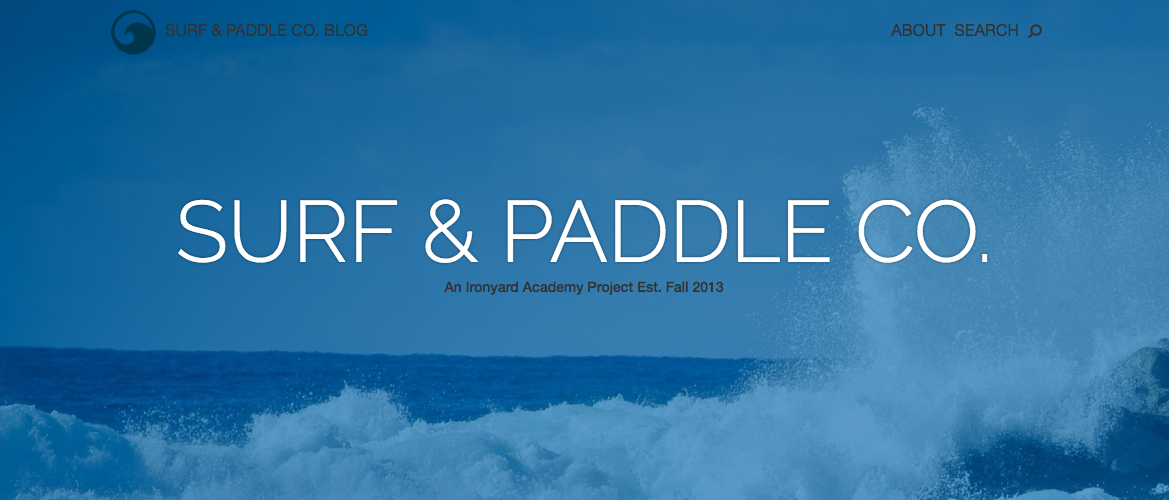
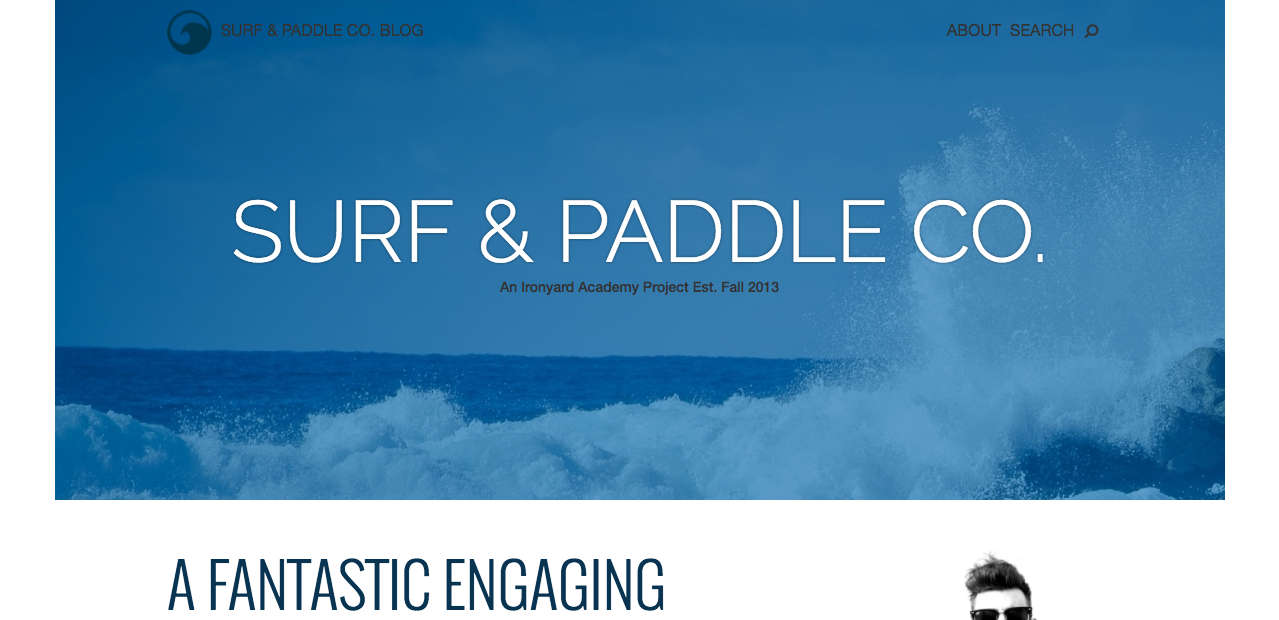
updated projects view and styling

diff --git a/index.html b/index.html
@@ -84,27 +84,135 @@
 
   <div id='projects' class="container">
     <h3>My projects</h3>
-    <div class="slider">
-      <ul class="slides">
-        <li class="project">
-          <a class='project-link' href="http://www.kevinbrown.io/surf-paddle/">
-            <img src="images/surf-and-paddle.png">
-            <div style='display:none;' class="caption center-align">
-              <h5 id='image-description' class="light grey-text text-lighten-3">This is a non-functional website, built with Bootstrap, to show design.</h5>
+    <div class="row">
+      <div class="col s6">
+        <div class="card">
+          <div class="card-image activator">
+            <img class='activator' src="images/final-project.png">
+            <!-- <span class="card-title">Surf &amp; Paddle</span> -->
+          </div>
+          <div class="card-content">
+            <span class="card-title activator grey-text text-darken-4">SnapShot<i class="material-icons right">more_vert</i></span>
+          </div>
+          <div class="card-reveal blue-grey darken-1 white-text">
+            <span class="card-title">SnapShot<i class="material-icons right">close</i></span>
+            <p>This is a React.js app I built for my final project at The Iron Yard. It allows Xbox users to view their saved clips from games they record on their Xbox, view clips from other users, like individual videos and save them, and comment on videos. In this project I used:
+              <ul>
+                <li>React</li>
+                <li>Backbone</li>
+                <li>Html</li>
+                <li>CSS</li>
+                <li>Bootstrap</li>
+              </ul>
+            </p>
+            <div class="card-action">
+              <a href="http://www.kevinbrown.io/potato-website/">Live</a>
+              <a class='right' href="https://github.com/brownkm5/potato-website">Code</a>
             </div>
-          </a>
-        </li>
-        <li class="project">
-          <a class='project-link' href="http://www.kevinbrown.io/10-final-project/">
-            <img src="images/final-project-home.png">
-            <div style='display:none;' class="caption center-align">
-              <h5 id='image-description' class="light grey-text text-lighten-3">This is a fully functional CRUD app that I built for my final project at The Iron Yard.</h5>
+          </div>
+          <div class="card-action"
+            <a href="http://www.kevinbrown.io/10-final-project/">Live</a>
+            <a class='right' href="https://github.com/brownkm5/10-final-project">Code</a>
+          </div>
+        </div>
+      </div>
+
+      <div class="col s6">
+        <div class="card">
+          <div class="card-image activator">
+            <img class='activator' src="images/surf-and-paddle.png">
+            <!-- <span class="card-title">Surf &amp; Paddle</span> -->
+          </div>
+          <div class="card-content">
+            <span class="card-title activator grey-text text-darken-4">Surf &amp; Paddle<i class="material-icons right">more_vert</i></span>
+          </div>
+          <div class="card-reveal blue-grey darken-1 white-text">
+            <span class="card-title">Surf &amp; Paddle<i class="material-icons right">close</i></span>
+            <p>This is non-functional website built during the second week at The Iron Yard. Its purpose was to develop skills with CSS. I used Html, Bootstrap, and CSS to build this page.</p>
+            <div class="card-action">
+              <a href="http://www.kevinbrown.io/potato-website/">Live</a>
+              <a class='right' href="https://github.com/brownkm5/potato-website">Code</a>
             </div>
-          </a>
-        </li>
-      </ul>
+          </div>
+          <div class="card-action">
+            <a href="http://www.kevinbrown.io/surf-paddle/">Live</a>
+            <a class='right' href="https://github.com/brownkm5/surf-paddle">Code</a>
+          </div>
+        </div>
+      </div>
     </div>
+
+    <div class="row">
+      <div class="col s6">
+        <div class="card">
+          <div class="card-image activator">
+            <img class='activator' src="images/github-clone.png">
+            <!-- <span class="card-title">Surf &amp; Paddle</span> -->
+          </div>
+          <div class="card-content">
+            <span class="card-title activator grey-text text-darken-4">Github Recreation<i class="material-icons right">more_vert</i></span>
+          </div>
+          <div class="card-reveal blue-grey darken-1 white-text">
+            <span class="card-title">Github Recreation<i class="material-icons right">close</i></span>
+            <p>This is non-functional website built during the second week at The Iron Yard. Its purpose was to develop skills with CSS. I used Html, Bootstrap, and CSS to build this page.</p>
+            <div class="card-action">
+              <a href="http://www.kevinbrown.io/potato-website/">Live</a>
+              <a class='right' href="https://github.com/brownkm5/potato-website">Code</a>
+            </div>
+          </div>
+          <div class="card-action">
+            <a href="http://www.kevinbrown.io/github-recreation/">Live</a>
+            <a class='right' href="https://github.com/brownkm5/github-recreation">Code</a>
+          </div>
+        </div>
+      </div>
+
+      <div class="col s6">
+        <div class="card">
+          <div class="card-image activator">
+            <img class='activator' src="images/potato-website.png">
+            <!-- <span class="card-title">Surf &amp; Paddle</span> -->
+          </div>
+          <div class="card-content">
+            <span class="card-title activator grey-text text-darken-4">Potato Website<i class="material-icons right">more_vert</i></span>
+          </div>
+          <div class="card-reveal blue-grey darken-1 white-text">
+            <span class="card-title">Potato Website<i class="material-icons right">close</i></span>
+            <p>This is non-functional website built during the second week at The Iron Yard. Its purpose was to develop skills with CSS. I used Html, Bootstrap, and CSS to build this page.</p>
+            <div class="card-action">
+              <a href="http://www.kevinbrown.io/potato-website/">Live</a>
+              <a class='right' href="https://github.com/brownkm5/potato-website">Code</a>
+            </div>
+          </div>
+          <div class="card-action">
+            <a href="http://www.kevinbrown.io/potato-website/">Live</a>
+            <a class='right' href="https://github.com/brownkm5/potato-website">Code</a>
+          </div>
+        </div>
+      </div>
+    </div>
+
   </div>
+  <!-- <div class="slider">
+    <ul class="slides">
+      <li class="project">
+        <a class='project-link' href="http://www.kevinbrown.io/surf-paddle/">
+          <img src="images/surf-and-paddle.png">
+          <div style='display:none;' class="caption center-align">
+            <h5 id='image-description' class="light grey-text text-lighten-3">This is a non-functional website, built with Bootstrap, to show design.</h5>
+          </div>
+        </a>
+      </li>
+      <li class="project">
+        <a class='project-link' href="http://www.kevinbrown.io/10-final-project/">
+          <img src="images/final-project-home.png">
+          <div style='display:none;' class="caption center-align">
+            <h5 id='image-description' class="light grey-text text-lighten-3">This is a fully functional CRUD app that I built for my final project at The Iron Yard.</h5>
+          </div>
+        </a>
+      </li>
+    </ul>
+  </div> -->
 
     <footer class="page-footer orange">
       <div class="container">
@@ -115,17 +223,18 @@
              <div class="col l4 offset-l2 s12">
                <h5 class="white-text">Info</h5>
                <ul>
-                 <li class="grey-text text-lighten-3">Phone: 864-230-7993 <a href="tel:+1-864-230-7993"> Call Now</a></li>
-                 <li class="grey-text text-lighten-3"><a href="mailto:brownkm531@gmail.com?subject=I Saw Your Portfolio">Email Me</a></li>
-                 <li class="grey-text text-lighten-3"><a href="https://github.com/brownkm5">Github</a></li>
-                 <li class="grey-text text-lighten-3"><a href="https://www.linkedin.com/in/kevin-brown-a764a1132">LinkedIn</a></li>
+                 <!-- <li class="grey-text text-lighten-3">Phone: 864-230-7993 <a href="tel:+1-864-230-7993"> Call Now</a></li> -->
+                 <li class="white-text text-lighten-3"><a class='white-text' href="#">Resume</a></li>
+                 <li class="white-text text-lighten-3"><a class='white-text' href="mailto:brownkm531@gmail.com?subject=I Saw Your Portfolio">Email Me</a></li>
+                 <li class="white-text text-lighten-3"><a class='white-text' href="https://github.com/brownkm5">Github</a></li>
+                 <li class="white-text text-lighten-3"><a class='white-text' href="https://www.linkedin.com/in/kevin-brown-a764a1132">LinkedIn</a></li>
                </ul>
              </div>
            </div>
          </div>
          <div class="footer-copyright">
            <div class="container">
-           <a href="#">kevinbrown.io</a>
+           <a class='white-text' href="#">kevinbrown.io</a>
            </div>
          </div>
         </div>

diff --git a/js/index.js b/js/index.js
@@ -2,32 +2,44 @@
 (function($){
 
   // bio used in header
-  var bio = "<p>My name is Kevin Brown, and I attended The Iron Yard in Greenville, SC.  I am familiar with HTML, CSS, SCSS, JavaScript, Backbone, Handlebars, & React.</p>"
-
+  var bio = "<p>Thank you for looking at my portfolio! My name is Kevin Brown and I'm a Junior Front End Developer living in Greenville, SC.  I am a College of Charleston alumni, and I recently graduated from The Iron Yard in Greenville. I am currently looking for a Junior-Dev position doing front end programming.</p>"
+//I would say something like, “Thank you for taking a look at my portfolio! My name is Kevin Brown and I am a Junior Front End Engineer currently living in Greenville, SC. When I’m not behind my computer, I like to…” then continue on talking in a personable way about some of your interests. I would have two links to your resume, a PDF they can open in another tab to quickly view, and a PDF that will immediately download it. (One for people browsing and one for recruiters who need a copy). I wouldn’t mention your major at College of Charleston since it’s on your resume
   // sets up mobile nav bar motion
   $(function(){
     $('.button-collapse').sideNav();
   });
-
-  // sets up slider of projects
-  $(document).ready(function(){
-      $('.slider').slider({full_width: true});
-    });
-
-  // shows and hides the project info when the screenshot is hovered over
-  $('.project').hover(function(){
-    $('.slider').slider('pause');
-    $('.caption').show();
-  },
-  function(){
-    $('.slider').slider('start');
-    $('.caption').hide();
-  });
+//no longer use the slider for displaying projects
+  // // sets up slider of projects
+  // $(document).ready(function(){
+  //     $('.slider').slider({full_width: true});
+  //   });
+  //
+  // // shows and hides the project info when the screenshot is hovered over
+  // $('.project').hover(function(){
+  //   $('.slider').slider('pause');
+  //   $('.caption').show();
+  // },
+  // function(){
+  //   $('.slider').slider('start');
+  //   $('.caption').hide();
+  // });
 
   // replaces starting header with bio info
   function handleAboutMe(){
-    $('.about-me').replaceWith(`<div class="row center-align"><h3>About Me</h3><div class="bio">${bio}</div></div>`);
+    $('.about-me').replaceWith(`
+      <div class="row center-align">
+        <h3 class='black-text'>About Me</h3>
+        <div class="col s12">
+          <div class="card blue-grey darken-1">
+            <div class="card-content white-text">
+              <img class='headshot' src="images/headshot.jpg">
+              <div class="bio">${bio}</div>
+            </div>
+          </div>
+        </div>
+      </div>
+    `);
   };
   $('#about-button').on('click', handleAboutMe);
-  
+
 })(jQuery);

diff --git a/css/styles.css b/css/styles.css
@@ -13,4 +13,26 @@
 
 .bio {
   text-align: center;
+  font-size: 16px;
 }
+
+.headshot {
+  width: 200px;
+  border-radius: 50%;
+  margin-bottom: 20px;
+}
+
+/*projects*/
+.card-content i {
+  margin-top: 12px;
+}
+.card-reveal {
+  font-weight: 300;
+  letter-spacing: .4px;
+}
+.card-reveal ul li {
+  list-style-type: disc;
+}
+ .activator {
+   cursor: pointer;
+ }
